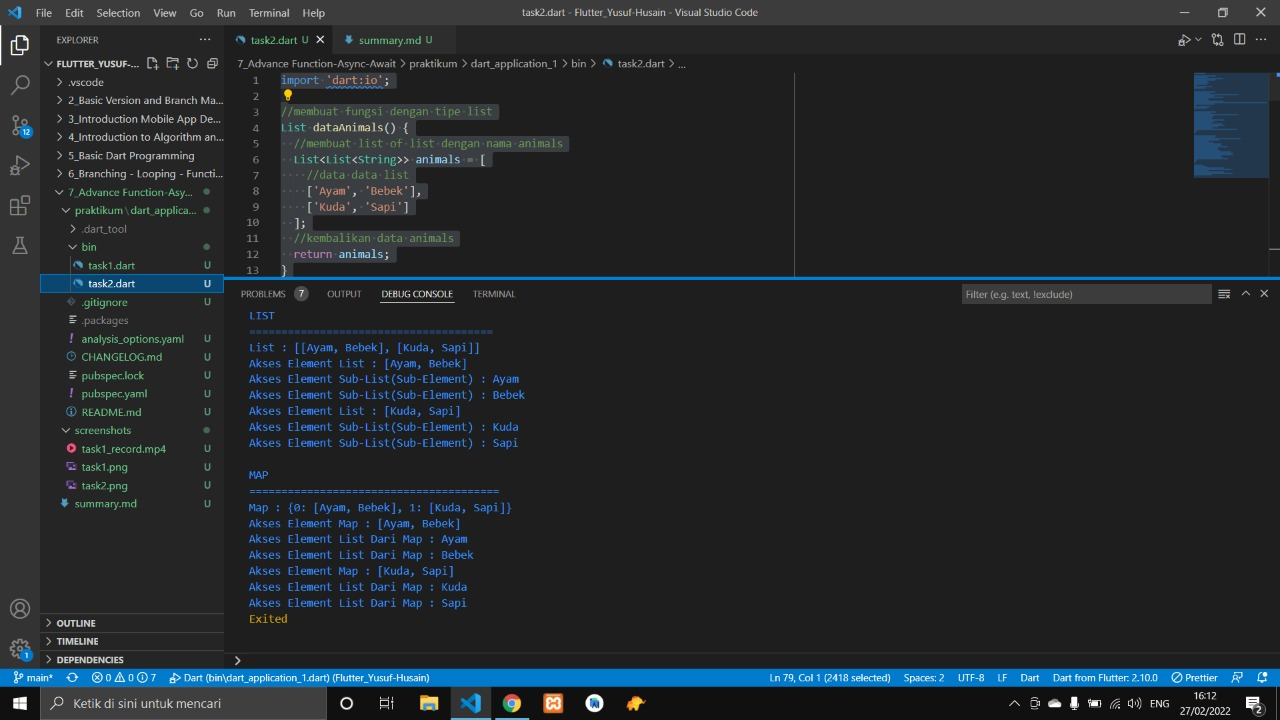
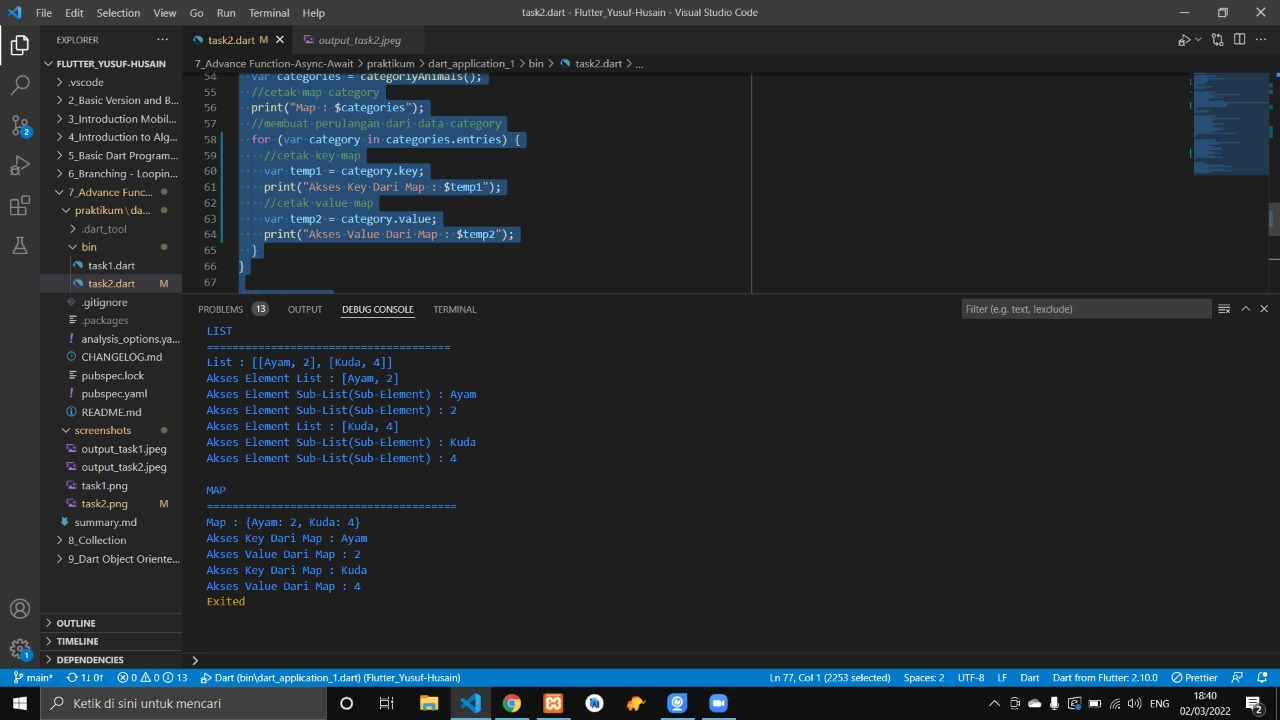
revisi section 7

diff --git a/7_Advance Function-Async-Await/praktikum/dart_application_1/bin/task2.dart b/7_Advance Function-Async-Await/praktikum/dart_application_1/bin/task2.dart
@@ -3,16 +3,16 @@ import 'dart:io';
 //membuat fungsi dengan tipe list
 List dataAnimals() {
   //membuat list of list dengan nama animals
-  List<List<String>> animals = [
+  List<List> animals = [
     //data data list
-    ['Ayam', 'Bebek'],
-    ['Kuda', 'Sapi']
+    ['Ayam', 2],
+    ['Kuda', 4],
   ];
   //kembalikan data animals
   return animals;
 }
 
-//membuat fungsi dengam tipe map
+// membuat fungsi dengan tipe map
 Map categoriyAnimals() {
   //membuat variabel sebagai penampung data dari List data animals;
   var animals = dataAnimals();
@@ -20,8 +20,11 @@ Map categoriyAnimals() {
   var categories = {};
   //membuat perulangan
   for (var i = 0; i < animals.length; i++) {
-    //setiap indeks perulangan menjadi key dari map dan akan memasukkan data list animals ke masing masing key
-    categories[i] = animals[i];
+    //setiap indeks ke nol dari data list animals menjadi key dari map dan indeks pertama dari data list animals akan menjadi value
+    // categories[animals[i][0]] = animals[i][1];
+    for (var j = 0; j < animals[i].length; j++) {
+      categories[animals[i][0]] = animals[i][1];
+    }
   }
   //kembalikan categories
   return categories;
@@ -52,18 +55,13 @@ void accessCategoriyAnimals() {
   //cetak map category
   print("Map : $categories");
   //membuat perulangan dari data category
-  for (var category in categories.keys) {
-    //membuat variabel penampung list data category
-    var temp = categories[category];
-    //cetak semua list data category
-    print("Akses Element Map : $temp");
-    //membuat perulangan pada setiap list data category
-    for (var i = 0; i < categories[category].length; i++) {
-      //membuat variabel penampung data list data category
-      var temp = categories[category][i];
-      //cetak semua data list data category
-      print("Akses Element List Dari Map : $temp");
-    }
+  for (var category in categories.entries) {
+    //cetak key map
+    var temp1 = category.key;
+    print("Akses Key Dari Map : $temp1");
+    //cetak value map
+    var temp2 = category.value;
+    print("Akses Value Dari Map : $temp2");
   }
 }
 
